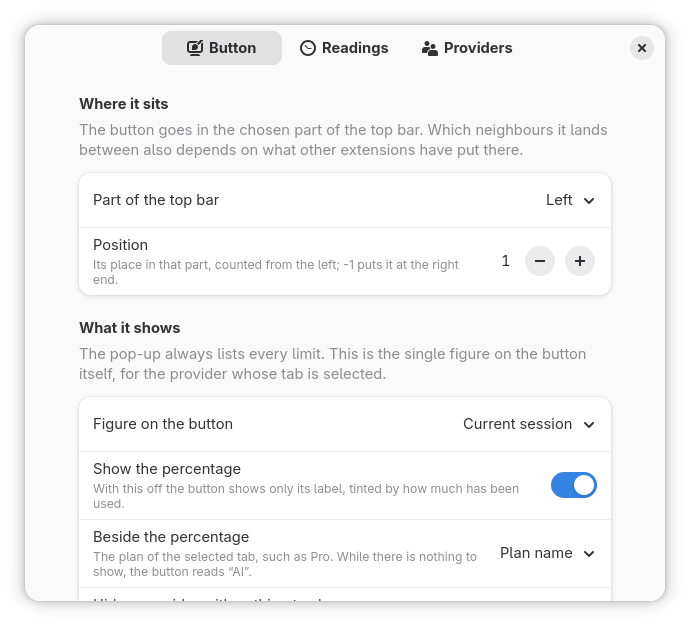
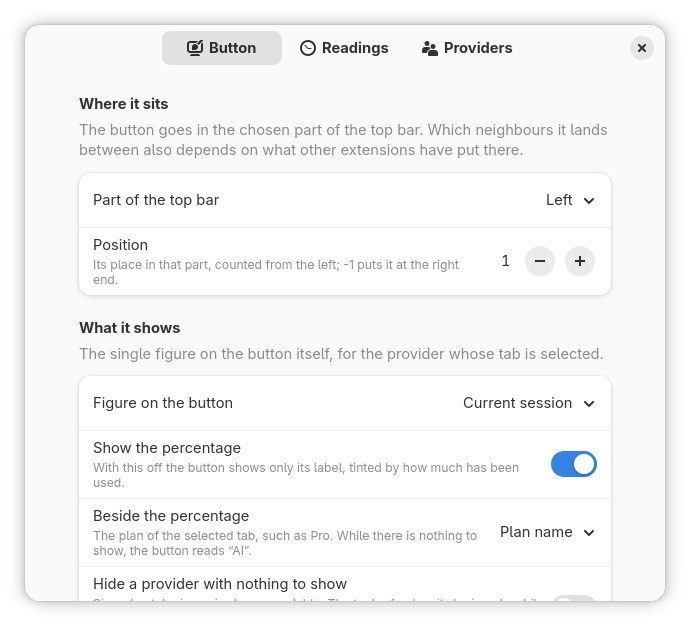
A simple view: one provider's limit cards and nothing else (#214)
view-mode "simple" makes simple-provider the only live provider and draws
only its cards: the Session or Weekly card, or all of them (simple-limits),
with no tabs, plan, Refresh or breakdown. A window chosen also sets the
button's figure. The cards now sit 17px in on every side, and the reset
time a little further from the percentage.

diff --git a/src/lib/indicator.js b/src/lib/indicator.js
@@ -13,13 +13,17 @@ import {Severity, Status, describeModel, formatBreakdown, formatPercent, formatR
 // Secondary text is dimmed with actor opacity, so it suits light and dark menus.
 const DIM_OPACITY = 160;
 
-function explain(reading, clock) {
+// The card a simple view of 'session' or 'weekly' keeps.
+const SIMPLE_GROUPS = {session: 'Session', weekly: 'Weekly'};
+
+// refresh: the pop-up has a Refresh button, which the simple view leaves out.
+function explain(reading, clock, refresh) {
     switch (reading.status) {
     case Status.SIGNED_OUT:
         return `Not signed in. Run ${reading.cli} and sign in there.`;
     case Status.EXPIRED: {
         const when = reading.expiredAt ? `expired at ${formatTime(reading.expiredAt, {clock})}` : 'has expired';
-        return reading.renewable
+        return reading.renewable && refresh
             ? `The stored login ${when}. Refresh to have ${reading.cli} renew it.`
             : `The stored login ${when}. Run ${reading.cli} once and it will refresh itself.`;
     }
@@ -86,6 +90,7 @@ class UsageIndicator extends PanelMenu.Button {
         this._options = options;
 
         this._renderPanel();
+        this._tabsItem.visible = !options.simple;
         this.menu.moveMenuItem(this._tabsItem, options.tabs === 'top' ? 0 : 1);
         if (this._selected)
             this._renderMenu();
@@ -155,16 +160,20 @@ class UsageIndicator extends PanelMenu.Button {
             this._addReading(reading, this._options);
         else
             this._section.addMenuItem(captionItem('Reading usage…'));
-        // St has no :last-child; the stylesheet pads the marked row.
-        this._section.box.get_children().at(-1).add_style_class_name('ai-usage-last');
+        // St has no :first-child or :last-child; the stylesheet pads the marked rows.
+        const rows = this._section.box.get_children();
+        rows.at(-1).add_style_class_name('ai-usage-last');
+        if (this._options.simple)
+            rows[0].add_style_class_name('ai-usage-first');
     }
 
-    _addReading(reading, {resetFormat, clock}) {
+    // options.simple is null, or which of the limits the simple view keeps.
+    _addReading(reading, {resetFormat, clock, simple}) {
         if (!reading.ok) {
-            this._section.addMenuItem(captionItem(explain(reading, clock)));
+            this._section.addMenuItem(captionItem(explain(reading, clock, !simple)));
             return;
         }
-        if (reading.failed) {
+        if (reading.failed && !simple) {
             this._section.addMenuItem(captionItem(
                 `Could not update: ${reading.failed}. These figures are from ${formatTime(reading.at, {clock})}.`));
         }
@@ -175,15 +184,24 @@ class UsageIndicator extends PanelMenu.Button {
             return;
         }
 
+        const group = SIMPLE_GROUPS[simple];
+        const shown = group ? reading.limits.filter(limit => limit.group === group) : reading.limits;
+        if (!shown.length) {
+            this._section.addMenuItem(captionItem(`${reading.displayName} has no ${simple} limit.`));
+            return;
+        }
+
         // A card per window, in the order each first appears.
-        const cards = Map.groupBy(reading.limits, limit => limit.group ?? limit.id);
+        const cards = Map.groupBy(shown, limit => limit.group ?? limit.id);
         for (const limits of cards.values()) {
             this._section.addMenuItem(cardItem(limits[0].group,
                 limits.map(limit => limitRow(limit, resetFormat, clock))));
         }
 
-        if (reading.credits)
+        if (reading.credits && !group)
             this._section.addMenuItem(cardItem(null, [limitRow(reading.credits, resetFormat, clock)]));
+        if (simple)
+            return;
 
         const breakdown = formatBreakdown(reading.breakdown);
         if (breakdown)

diff --git a/src/prefs.js b/src/prefs.js
@@ -39,14 +39,14 @@ export default class AiUsagePreferences extends ExtensionPreferences {
 
         const shown = new Adw.PreferencesGroup({
             title: 'What it shows',
-            description: 'The pop-up always lists every limit. This is the single figure on the button itself, '
-                + 'for the provider whose tab is selected.',
+            description: 'The single figure on the button itself, for the provider whose tab is selected.',
         });
-        shown.add(comboRow(settings, 'primary-limit', 'Figure on the button', [
+        const figure = comboRow(settings, 'primary-limit', 'Figure on the button', [
             ['highest', 'Whichever is highest'],
             ['session', 'Current session'],
             ['weekly', 'This week'],
-        ]));
+        ]);
+        shown.add(figure);
         shown.add(switchRow(settings, 'show-percent', 'Show the percentage',
             'With this off the button shows only its label, tinted by how much has been used.'));
         const label = comboRow(settings, 'button-label', 'Beside the percentage', [
@@ -67,10 +67,40 @@ export default class AiUsagePreferences extends ExtensionPreferences {
             description: 'Every limit carries the time it resets, worded the same in the pop-up and in '
                 + 'notifications. An exact time is in your own timezone, on the clock your desktop is set to.',
         });
-        popup.add(comboRow(settings, 'tab-position', 'Provider tabs', [
+        const view = comboRow(settings, 'view-mode', 'View', [
+            ['default', 'Default'],
+            ['simple', 'Simple'],
+        ]);
+        view.subtitle = 'Simple is one provider\'s limits and nothing else.';
+        popup.add(view);
+        const provider = comboRow(settings, 'simple-provider', 'Provider',
+            PROVIDERS.map(p => [p.id, p.displayName]));
+        popup.add(provider);
+        const limits = comboRow(settings, 'simple-limits', 'Limits', [
+            ['session', 'Session'],
+            ['weekly', 'Weekly'],
+            ['all', 'All'],
+        ]);
+        limits.subtitle = 'Session or Weekly is also the figure on the button.';
+        popup.add(limits);
+        const tabs = comboRow(settings, 'tab-position', 'Provider tabs', [
             ['top', 'At the top'],
             ['bottom', 'At the bottom'],
-        ]));
+        ]);
+        popup.add(tabs);
+
+        // Ollama has no limits to choose from: its pop-up lists its models.
+        const syncView = () => {
+            const simple = settings.get_string('view-mode') === 'simple';
+            provider.visible = simple;
+            limits.visible = simple;
+            limits.sensitive = settings.get_string('simple-provider') !== 'ollama';
+            tabs.visible = !simple;
+            figure.sensitive = !simple || settings.get_string('simple-limits') === 'all';
+        };
+        syncView();
+        const viewId = settings.connect('changed', syncView);
+        page.connect('destroy', () => settings.disconnect(viewId));
         const reset = comboRow(settings, 'reset-format', 'Reset times', [
             ['auto', 'Automatic'],
             ['relative', 'Countdown'],

diff --git a/src/lib/app.js b/src/lib/app.js
@@ -53,12 +53,10 @@ export class AiUsageApp {
         for (const provider of PROVIDERS) {
             const settings = providerSettings(this._extension.dir, provider.id);
             const handlerId = settings.connect('changed', (_s, key) => {
-                if (key !== 'enabled') {
+                if (key === 'enabled')
+                    this._readAgain();
+                else
                     this._redraw();
-                    return;
-                }
-                this._syncProviders();
-                this.refresh();
             });
             // A copy per enable, so whatever a provider caches goes with disable().
             this._providers.set(provider.id,
@@ -73,6 +71,8 @@ export class AiUsageApp {
                 this._schedule();
             else if (key === 'renew-login')
                 this.refresh();
+            else if (key === 'view-mode' || key === 'simple-provider')
+                this._readAgain();
             else
                 this._redraw();
         });
@@ -114,16 +114,24 @@ export class AiUsageApp {
         this._http = null;
     }
 
+    // Which providers are live has changed.
+    _readAgain() {
+        this._syncProviders();
+        this.refresh();
+    }
+
     _live() {
         return [...this._providers.values()].filter(entry => entry.live);
     }
 
-    // A provider is live when it is switched on and its command-line tool is
-    // installed. The button exists while one is.
+    // A provider is live when it is switched on, its command-line tool is
+    // installed and, in the simple view, it is the one chosen. The button exists while one is.
     _syncProviders() {
+        const only = this._settings.get_string('view-mode') === 'simple'
+            ? this._settings.get_string('simple-provider') : null;
         for (const entry of this._providers.values()) {
             const {provider, settings} = entry;
-            entry.live = settings.get_boolean('enabled');
+            entry.live = settings.get_boolean('enabled') && (!only || provider.id === only);
             if (entry.live && !GLib.find_program_in_path(provider.cli)) {
                 Log.debug(`'${provider.cli}' is not installed; leaving ${provider.id} out.`);
                 entry.live = false;
@@ -279,13 +287,15 @@ export class AiUsageApp {
             return;
 
         const s = this._settings;
+        const simple = s.get_string('view-mode') === 'simple' ? s.get_string('simple-limits') : null;
         const thresholds = {warn: s.get_int('warn-percent'), critical: s.get_int('critical-percent')};
         const options = {
             showPercent: s.get_boolean('show-percent'),
             buttonLabel: s.get_string('button-label'),
             buttonIcon: s.get_string('button-icon'),
             hideUnavailable: s.get_boolean('hide-unavailable'),
-            limit: s.get_string('primary-limit'),
+            limit: simple && simple !== 'all' ? simple : s.get_string('primary-limit'),
+            simple,
             selected: s.get_string('selected-provider'),
             tabs: s.get_string('tab-position'),
             resetFormat: s.get_string('reset-format'),

diff --git a/src/stylesheet.css b/src/stylesheet.css
@@ -49,6 +49,12 @@
     padding: 2px 8px;
 }
 
+/* The theme's 12px (0.818em) at the top, where the title's line height adds 4px above its
+   letters; the other sides take those 4px too, so the content sits 17px in all round. */
+.ai-usage-card {
+    padding: 12px 16px 16px;
+}
+
 /* Rows apart by .popup-menu-item's 9px, on top of the title's own 6px below it. */
 .ai-usage-card .events-box {
     spacing: 9px;
@@ -69,9 +75,10 @@
     font-weight: bold;
 }
 
-/* The one fixed-width column, wide enough for "100%", so the columns line up. */
+/* The one fixed-width column, so the columns line up: "100%" takes 3.5em, and the
+   rest sets the reset time in from the right edge. */
 .ai-usage-limit-percent {
-    min-width: 3.5em;
+    min-width: 4.5em;
 }
 
 .ai-usage-limit-figure {
@@ -148,4 +155,9 @@
 /* With .popup-menu-content's 6px, the sides' 18px. Last, to outweigh the row's own padding. */
 .ai-usage-last {
     padding-bottom: 12px;
+}
+
+/* The same at the top, where the simple view has no tab row. */
+.ai-usage-first {
+    padding-top: 12px;
 }

diff --git a/.claude/rules/popup.md b/.claude/rules/popup.md
@@ -17,6 +17,10 @@ paths:
   `selected-provider`; everything redraws from the setting. The tabs are rebuilt
   only when the providers shown change, so a redraw does not take the keyboard
   focus off one.
+* **The simple view** hides the tab row (`_tabsItem.visible`) and draws only the cards:
+  `_addReading()` skips the kept-figures caption and the breakdown, and an expired login's
+  caption does not offer Refresh, which is not there. With no tab row on top, the first
+  row is marked `ai-usage-first` and padded as the last one is.
 * The menu has a fixed `width`, wide enough for the longest label, so
   it does not move when another tab is chosen.
 * **A card per window** (`cardItem()`): the limits sharing a `group` (`Session`,
@@ -25,7 +29,9 @@ paths:
   the credits, get a card with no title. The card is the calendar's events card,
   the theme's own `events-button` > `events-box` > `events-title`, and is
   reactive, since St makes a non-reactive widget `:insensitive`, which the theme
-  greys out. A row's label names only what it covers (`All models`, a model).
+  greys out. Its padding is the theme's at the top and 4px more on the other sides, the
+  line height the title adds above its letters, so the content sits 17px in all round
+  (measured in the nested shell). A row's label names only what it covers (`All models`, a model).
 * The bars are the shell's `BarLevel`, drawn from `-barlevel-*` properties on
   `.ai-usage-bar` and its severity class. It reads `-barlevel-overdrive-color`
   too, so that is set though never drawn. A row whose `percent` is null (credits

diff --git a/CLAUDE.md b/CLAUDE.md
@@ -86,6 +86,12 @@ the debug log on (`lib/log.js`'s `setVerbose`).
   provider with no `OK` reading, or no reading yet, and the button with the last tab;
   it is still read, so it returns when the tool refreshes its login.
   `_syncProviders()` diffs against the live list, so toggling needs no restart.
+* **The simple view** (`view-mode` `simple`) makes `simple-provider` the only live
+  provider, so the others are neither read nor notified on, and the pop-up holds only
+  its cards: no tab row, plan, Refresh, breakdown or kept-figures caption.
+  `simple-limits` keeps the `Session` or `Weekly` card (by the limit's `group`), or all
+  of them with the credits, and a window chosen also sets the button's figure over
+  `primary-limit`. Ollama shows its models.
 * Role `${uuid}`, placed in `panel-box` at `panel-index` (default left, 1: after
   the workspaces indicator, which keeps the corner); `_place()` rebuilds it
   to move it.
@@ -122,6 +128,8 @@ the debug log on (`lib/log.js`'s `setVerbose`).
 Global keys: `primary-limit` (`session` default, `highest`, `weekly`),
 `show-percent`, `button-label`, `button-icon`, `hide-unavailable`, `renew-login`, `reset-format`,
 `selected-provider` (the tab chosen last), `tab-position` (`top` default, `bottom`),
+`view-mode` (`default`, `simple`), `simple-provider` (`claude` default), `simple-limits`
+(`session`, `weekly`, `all` default),
 `panel-box`, `panel-index`, `poll-seconds`, `warn-percent`, `critical-percent`,
 `notify-percent`.
 

diff --git a/README.md b/README.md
@@ -13,6 +13,8 @@ Claude's limits below in cards like the calendar's, Session and Weekly, each row
   80% and red at 95%.
 - **A tab per subscription** listing the session, the week and each model, with the time
   each resets.
+- **A simple view**, if you prefer: one provider's session card, weekly card or both, and
+  nothing else in the pop-up.
 - **The provider's own figures**, the same ones its command-line tool shows.
 - **An Ollama tab** listing the local server's models: which are in memory (how much, on
   the GPU or the CPU, the context, when each unloads), and for each model used this
